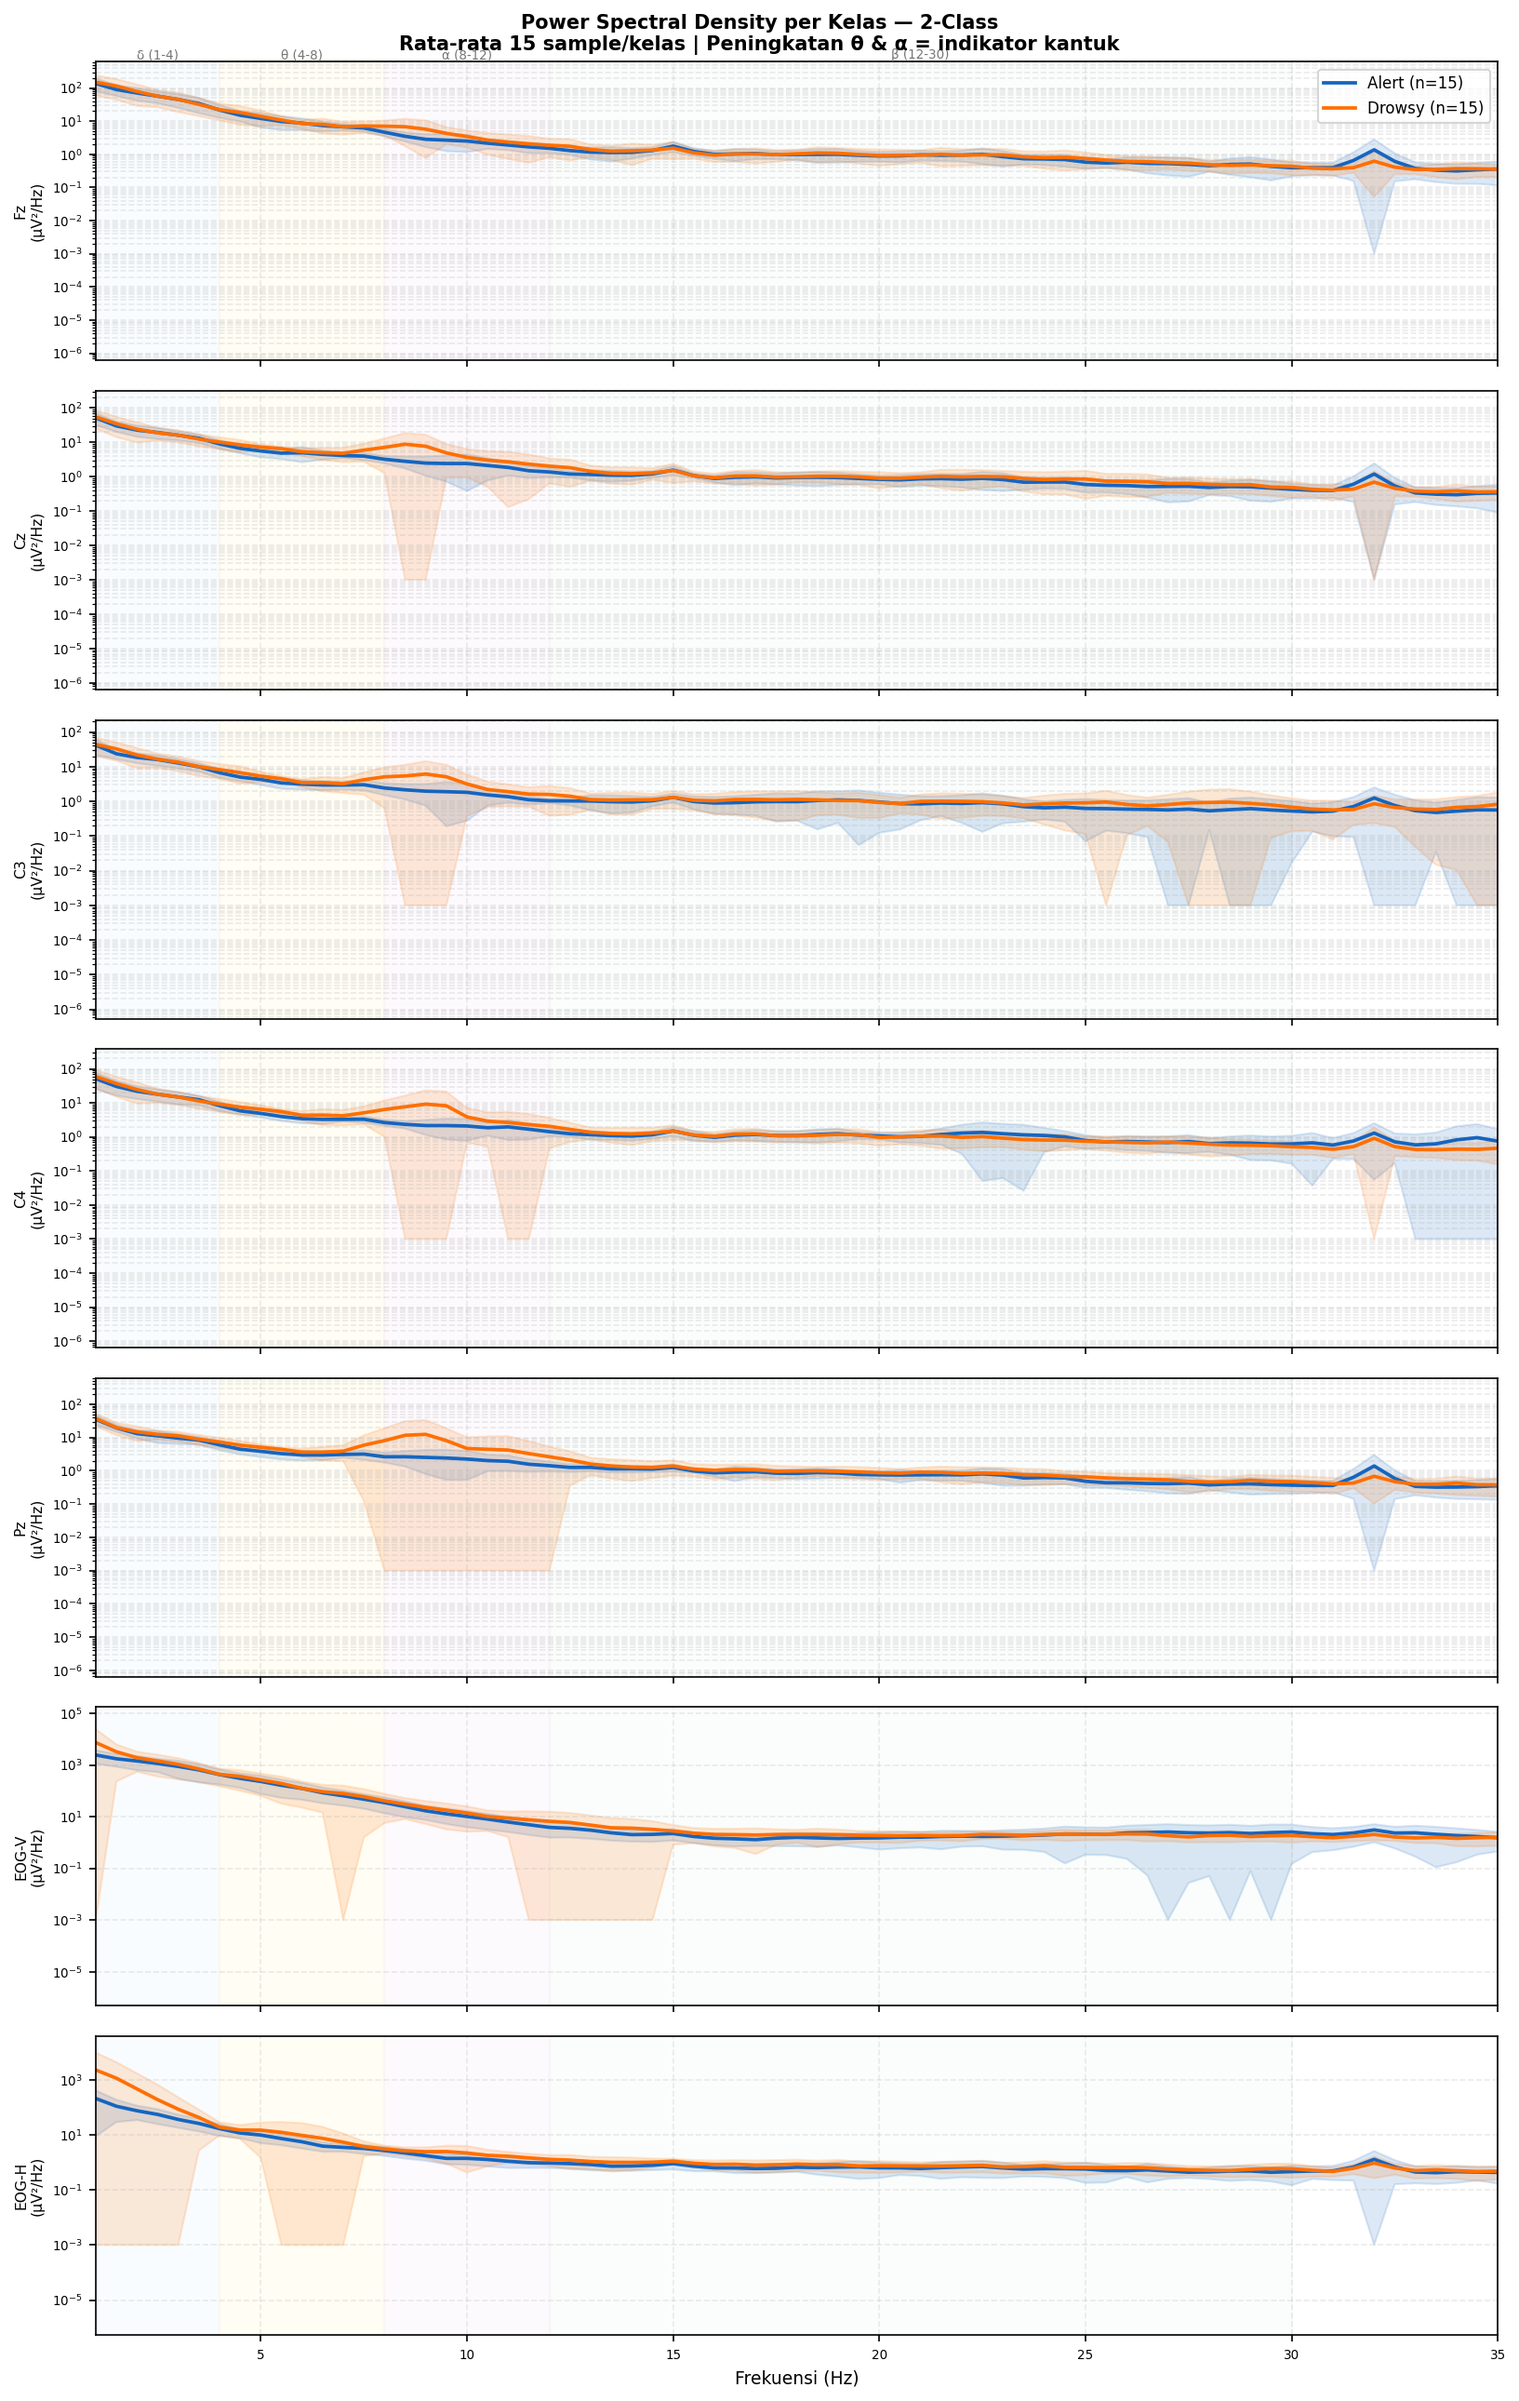
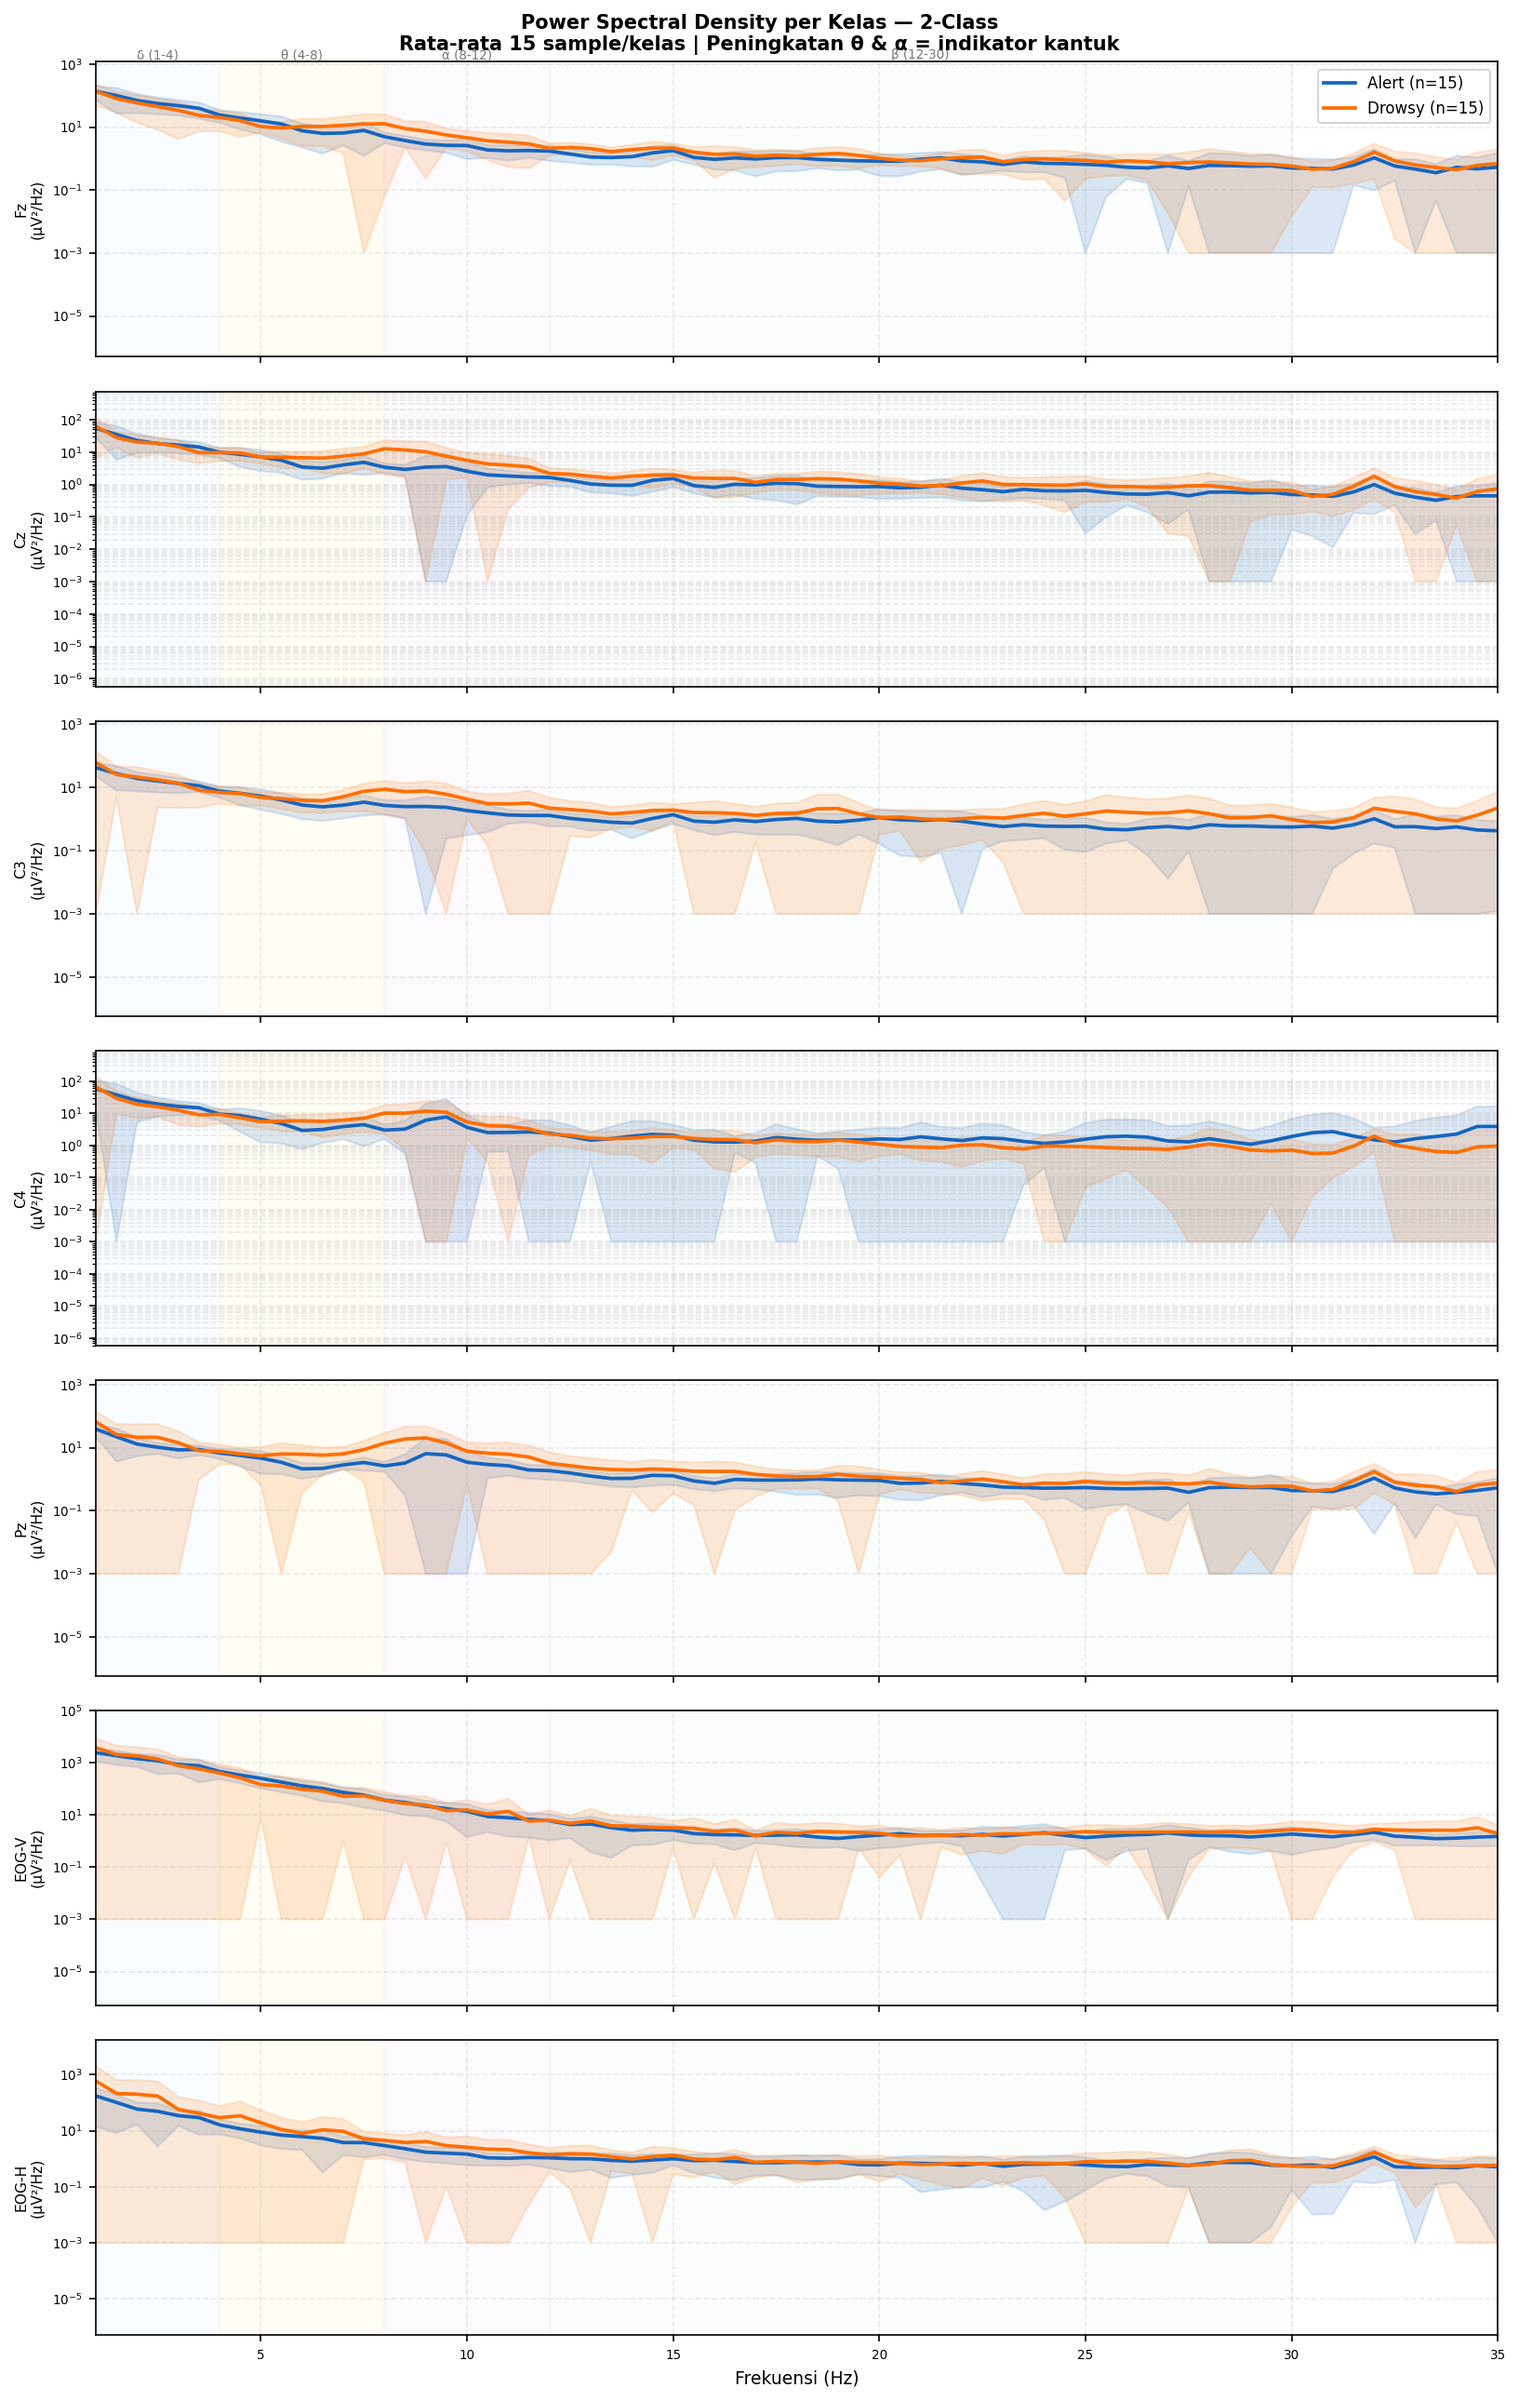
experiment 13: 2 class new

diff --git a/code/train.py b/code/train.py
@@ -74,7 +74,7 @@ def plot_confusion_matrix(y_true, y_pred, epoch, fold, phase='val', save_dir='co
         y_pred = y_pred.cpu().numpy()
     
     # Hitung confusion matrix
-    cm = confusion_matrix(y_true, y_pred)
+    cm = confusion_matrix(y_true, y_pred, labels=list(range(Config.NUM_CLASSES)))
     
     # Class names otomatis dari Config.NUM_CLASSES
     if Config.NUM_CLASSES == 2:
@@ -232,16 +232,17 @@ def print_classification_report(cm, class_names=None):
     
     return metrics
 
-def train(fold=0):  # fold dipertahankan agar tidak breaking
+def train(fold=0):  # ✅ TAMBAHKAN parameter fold
     # --- 1. Konfigurasi Eksperimen ---
     device = torch.device("cuda" if Config.USE_CUDA and torch.cuda.is_available() else "cpu")
     
+    # ✅ GUNAKAN Config untuk semua parameter
     window_sec = Config.WINDOW_SEC
     n_splits = Config.N_SPLITS
     batch_size = Config.BATCH_SIZE
     epochs = Config.EPOCHS
     lr = Config.LEARNING_RATE
-    current_fold = 0  # fixed split, selalu 0
+    current_fold = fold  # 
     
     # Konfigurasi Confusion Matrix
     cm_save_interval = 5
@@ -272,39 +273,32 @@ def train(fold=0):  # fold dipertahankan agar tidak breaking
 
         wandb.init(
             project=Config.WANDB_PROJECT,
-            name=f"Mamba_FixedSplit_{Config.NUM_CLASSES}Class",
+            name=f"Mamba_Fold_{current_fold}_2Class_10secWindows",
             config=clean_config,  
             reinit=True  
         )
 
     # --- 3. Persiapan Dataset & Dataloader ---
-    # Fixed subject split: Train=12 subj, Val=Subj1, Test=Subj4
-    # Val dan Test TIDAK pernah dilihat model selama training
     train_dataset = EEGDataset(
         data_dir=Config.DATA_DIR,
         csv_path=os.path.join('label/labels.csv'),
+        fold=fold,
         split='train',
+        n_splits=Config.N_SPLITS,
         window_sec=Config.WINDOW_SEC,
-        stride_sec=Config.STRIDE_SEC,
-        use_augmentation=Config.USE_AUGMENTATION,
-    )
-
+        stride_sec=Config.STRIDE_SEC,   
+        use_augmentation=True
+    )           
+    
     val_dataset = EEGDataset(
         data_dir=Config.DATA_DIR,
         csv_path=os.path.join('label/labels.csv'),
+        fold=fold,
         split='val',
+        n_splits=Config.N_SPLITS,
         window_sec=Config.WINDOW_SEC,
-        stride_sec=Config.STRIDE_SEC,   # sama dengan train agar konsisten
-        use_augmentation=False,
-    )
-
-    test_dataset = EEGDataset(
-        data_dir=Config.DATA_DIR,
-        csv_path=os.path.join('label/labels.csv'),
-        split='test',
-        window_sec=Config.WINDOW_SEC,
-        stride_sec=Config.STRIDE_SEC,
-        use_augmentation=False,
+        stride_sec=Config.STRIDE_SEC,   
+        use_augmentation=False          
     )
 
     # FIX: Gunakan standard DataLoader — UniqueRecordingBatchSampler
@@ -321,15 +315,6 @@ def train(fold=0):  # fold dipertahankan agar tidak breaking
     
     val_loader = DataLoader(
         val_dataset,
-        batch_size=Config.BATCH_SIZE,
-        shuffle=False,
-        collate_fn=collate_fn,
-        num_workers=Config.NUM_WORKERS,
-        pin_memory=True if device.type == 'cuda' else False
-    )
-
-    test_loader = DataLoader(
-        test_dataset,
         batch_size=Config.BATCH_SIZE,
         shuffle=False,
         collate_fn=collate_fn,
@@ -545,7 +530,7 @@ def train(fold=0):  # fold dipertahankan agar tidak breaking
             patience_counter = 0  # ✅ Reset counter
             
             if Config.SAVE_BEST_ONLY:
-                model_name = f"best_mamba_fixed_split.pt"
+                model_name = f"best_mamba_fold{current_fold}.pt"
                 raw_config = Config.to_dict()
                 clean_config = {
                     k: v for k, v in raw_config.items() 
@@ -591,40 +576,34 @@ def train(fold=0):  # fold dipertahankan agar tidak breaking
         wandb.run.summary["best_val_acc"] = best_val_acc.item()
         wandb.run.summary["best_val_f1"] = best_val_f1
     
-    # Load best model untuk evaluasi final
+    # Final confusion matrix dengan best model
     print("📊 Generating Final Confusion Matrix with Best Model...")
-    checkpoint = torch.load("best_mamba_fixed_split.pt")
+    checkpoint = torch.load(f"best_mamba_fold{current_fold}.pt")
     model.load_state_dict(checkpoint['model_state_dict'])
     model.eval()
-
-    def run_eval(loader, phase_name):
-        preds_list, targets_list = [], []
-        with torch.no_grad():
-            for signals, labels in loader:
-                signals = signals.to(device)
-                logits  = model(signals)
-                preds   = torch.argmax(logits, dim=1)
-                preds_list.append(preds.cpu())
-                targets_list.append(labels.cpu())
-        all_preds   = torch.cat(preds_list)
-        all_targets = torch.cat(targets_list)
-        cm = plot_confusion_matrix(
-            all_targets, all_preds,
-            epoch='final', fold=0,
-            phase=phase_name, save_dir=cm_save_dir
-        )
-        print(f"\n📋 {phase_name.upper()} Classification Report:")
-        print_classification_report(cm)
-        return cm
-
-    # Evaluasi Val set (subjek 1)
-    run_eval(val_loader, 'val_best_model')
-
-    # Evaluasi Test set (subjek 4) — tidak pernah dilihat selama training
-    print("\n" + "="*60)
-    print("🧪 EVALUASI TEST SET (Subjek belum pernah dilihat model)")
-    print("="*60)
-    test_cm = run_eval(test_loader, 'test')
+    
+    final_val_preds = []
+    final_val_targets = []
+    
+    with torch.no_grad():
+        for signals, labels in val_loader:
+            signals = signals.to(device)
+            logits = model(signals)
+            preds = torch.argmax(logits, dim=1)
+            final_val_preds.append(preds.cpu())
+            final_val_targets.append(labels.cpu())
+    
+    final_val_preds = torch.cat(final_val_preds)
+    final_val_targets = torch.cat(final_val_targets)
+    
+    final_cm = plot_confusion_matrix(
+        final_val_targets, final_val_preds,
+        epoch='final', fold=current_fold,
+        phase='val_best_model', save_dir=cm_save_dir
+    )
+    
+    print("\n📋 Final Model Classification Report:")
+    print_classification_report(final_cm)
 
     if Config.USE_WANDB:
         wandb.finish()
@@ -632,7 +611,8 @@ def train(fold=0):  # fold dipertahankan agar tidak breaking
     return best_val_acc.item(), best_val_f1
 
 if __name__ == "__main__":
-    train()
+    # Train single fold
+    train(fold=0)
     
     # Fll 5-fold CV
     # results = []

diff --git a/code/datareader.py b/code/datareader.py
@@ -10,22 +10,6 @@ import matplotlib.pyplot as plt
 from torch.utils.data import Dataset, DataLoader, Sampler
 from collections import defaultdict, Counter
 from sklearn.model_selection import GroupKFold
-
-# ============================================================
-# FIXED SUBJECT SPLIT — Train / Val / Test
-#
-# Dipilih berdasarkan analisis labels.csv:
-#   VAL  : Subjek 1  → punya Alert + LV + Drowsy (paling beragam)
-#   TEST : Subjek 4  → punya LV + Drowsy (untuk evaluasi final)
-#   TRAIN: Semua subjek lainnya (12 subjek)
-#
-# Prinsip:
-#   - Val harus punya semua kelas agar loss informatif setiap epoch
-#   - Val dan Test adalah subjek yang TIDAK pernah dilihat saat training
-#   - Seed fixed via RANDOM_SEED untuk reproduksibilitas
-# ============================================================
-VAL_SUBJECTS  = ['1']   # Subjek 1: KSS 3,6,7 → Alert+LV+Drowsy
-TEST_SUBJECTS = ['4']   # Subjek 4: KSS 4,8,9 → LV+Drowsy
 from config import Config
 
 # Set random seeds untuk reproduksibilitas
@@ -34,20 +18,8 @@ random.seed(RANDOM_SEED)
 np.random.seed(RANDOM_SEED)
 torch.manual_seed(RANDOM_SEED)
 
-# ============================================================
-# BANDPASS FILTER — dikontrol dari Config
-# Standar EEG klinis: 0.5–40 Hz
-#   - Low cutoff 0.5 Hz  : hilangkan DC offset & drift baseline
-#   - High cutoff 40 Hz  : hilangkan noise otot (EMG) & power line
-#   - EOG tetap difilter dengan range yang sama karena
-#     slow eye movement (0.5-4 Hz) dan blink (~1-3 Hz)
-#     masih dalam rentang ini
-#
-# Dikontrol via Config.USE_BANDPASS_FILTER
-# ============================================================
 BANDPASS_LOW  = 0.5   # Hz
 BANDPASS_HIGH = 40.0  # Hz
-
 
 def apply_bandpass(signal_uv: np.ndarray, sfreq: float) -> np.ndarray:
     """
@@ -85,8 +57,8 @@ def apply_bandpass(signal_uv: np.ndarray, sfreq: float) -> np.ndarray:
 def kss_to_class(kss: int) -> int:
     """Konversi nilai KSS mentah ke indeks kelas."""
     if Config.NUM_CLASSES == 2:
-        # Binary: Alert = KSS 1-3 (0), Drowsy = KSS 4-9 (1)
-        return 0 if kss <= 3 else 1
+        # Binary: Alert = KSS 1-5 (0), Drowsy = KSS 6-9 (1)
+        return 0 if kss <= 5 else 1
     else:
         # 3-class: Alert(0), Low Vigilance(1), Drowsy(2)
         if kss <= 3:   return 0
@@ -145,11 +117,9 @@ class EEGDataset(Dataset):
     def __init__(
         self,
         data_dir, csv_path,
-        split,                  # 'train', 'val', atau 'test'
+        fold, split, n_splits,
         window_sec, stride_sec,
-        use_augmentation=False,
-        # Parameter lama dipertahankan agar tidak breaking jika masih dipanggil
-        fold=0, n_splits=None,
+        use_augmentation=False
     ):
         self.data_dir         = data_dir
         self.window_sec       = window_sec
@@ -158,18 +128,15 @@ class EEGDataset(Dataset):
 
         df = pd.read_csv(csv_path)
         if 'subject_id' not in df.columns:
+            # DROZY format: "1-1.edf" → subject_id = "1"
             df['subject_id'] = df['filename'].apply(lambda x: x.split('-')[0])
 
-        # ── Fixed subject split ──────────────────────────────────
-        # Pilih baris sesuai split berdasarkan subject_id
-        if split == 'val':
-            mask = df['subject_id'].isin(VAL_SUBJECTS)
-        elif split == 'test':
-            mask = df['subject_id'].isin(TEST_SUBJECTS)
-        else:  # 'train'
-            mask = ~df['subject_id'].isin(VAL_SUBJECTS + TEST_SUBJECTS)
+        gkf    = GroupKFold(n_splits=n_splits)
+        splits = list(gkf.split(df, df['label'], groups=df['subject_id']))
+        train_idx, val_idx = splits[fold]
 
-        self.file_list = df[mask][['filename', 'label']].values.tolist()
+        selected_idx   = train_idx if split == 'train' else val_idx
+        self.file_list = df.iloc[selected_idx][['filename', 'label']].values.tolist()
 
         self.samples  = []
         total_windows = 0

diff --git a/code/config.py b/code/config.py
@@ -8,17 +8,17 @@ class Config:
     
     # Mamba specific parameters
     MAMBA_D_MODEL = 32   # Naikkan kapasitas (dari 32)
-    MAMBA_N_LAYERS = 2   # Number of Mamba layers
+    MAMBA_N_LAYERS = 4   # Number of Mamba layers
     MAMBA_D_STATE = 16   # SSM state expansion factor
     MAMBA_D_CONV = 4     # Local convolution width
     MAMBA_EXPAND = 2     # Block expansion factor
     
     # ==================== Data Parameters ====================
     IN_CHANNELS = 7      # EEG channels: Fz, Cz, C3, C4, Pz, EOG-V, EOG-H
-    NUM_CLASSES = 3      # 2-class: Alert(0) vs Drowsy(1)
-    WINDOW_SEC = 30       # Window size in seconds
+    NUM_CLASSES = 2      # 2-class: Alert(0) vs Drowsy(1)
+    WINDOW_SEC = 10       # Window size in seconds
     SAMPLE_RATE = 512    # Hz
-    STRIDE_SEC = 10      # Sliding window stride untuk training (detik)
+    STRIDE_SEC = 5      # Sliding window stride untuk training (detik)
     
     # ==================== Training Parameters ====================
     BATCH_SIZE = 16
@@ -35,7 +35,7 @@ class Config:
     EARLY_STOPPING_PATIENCE = 5  # Naikkan dari 10
     
     # ==================== Cross Validation ====================
-    N_SPLITS = 1         # 5-fold cross validation
+    N_SPLITS = 5         # 5-fold cross validation
     CURRENT_FOLD = 0
     
     # ==================== Loss Function ====================
